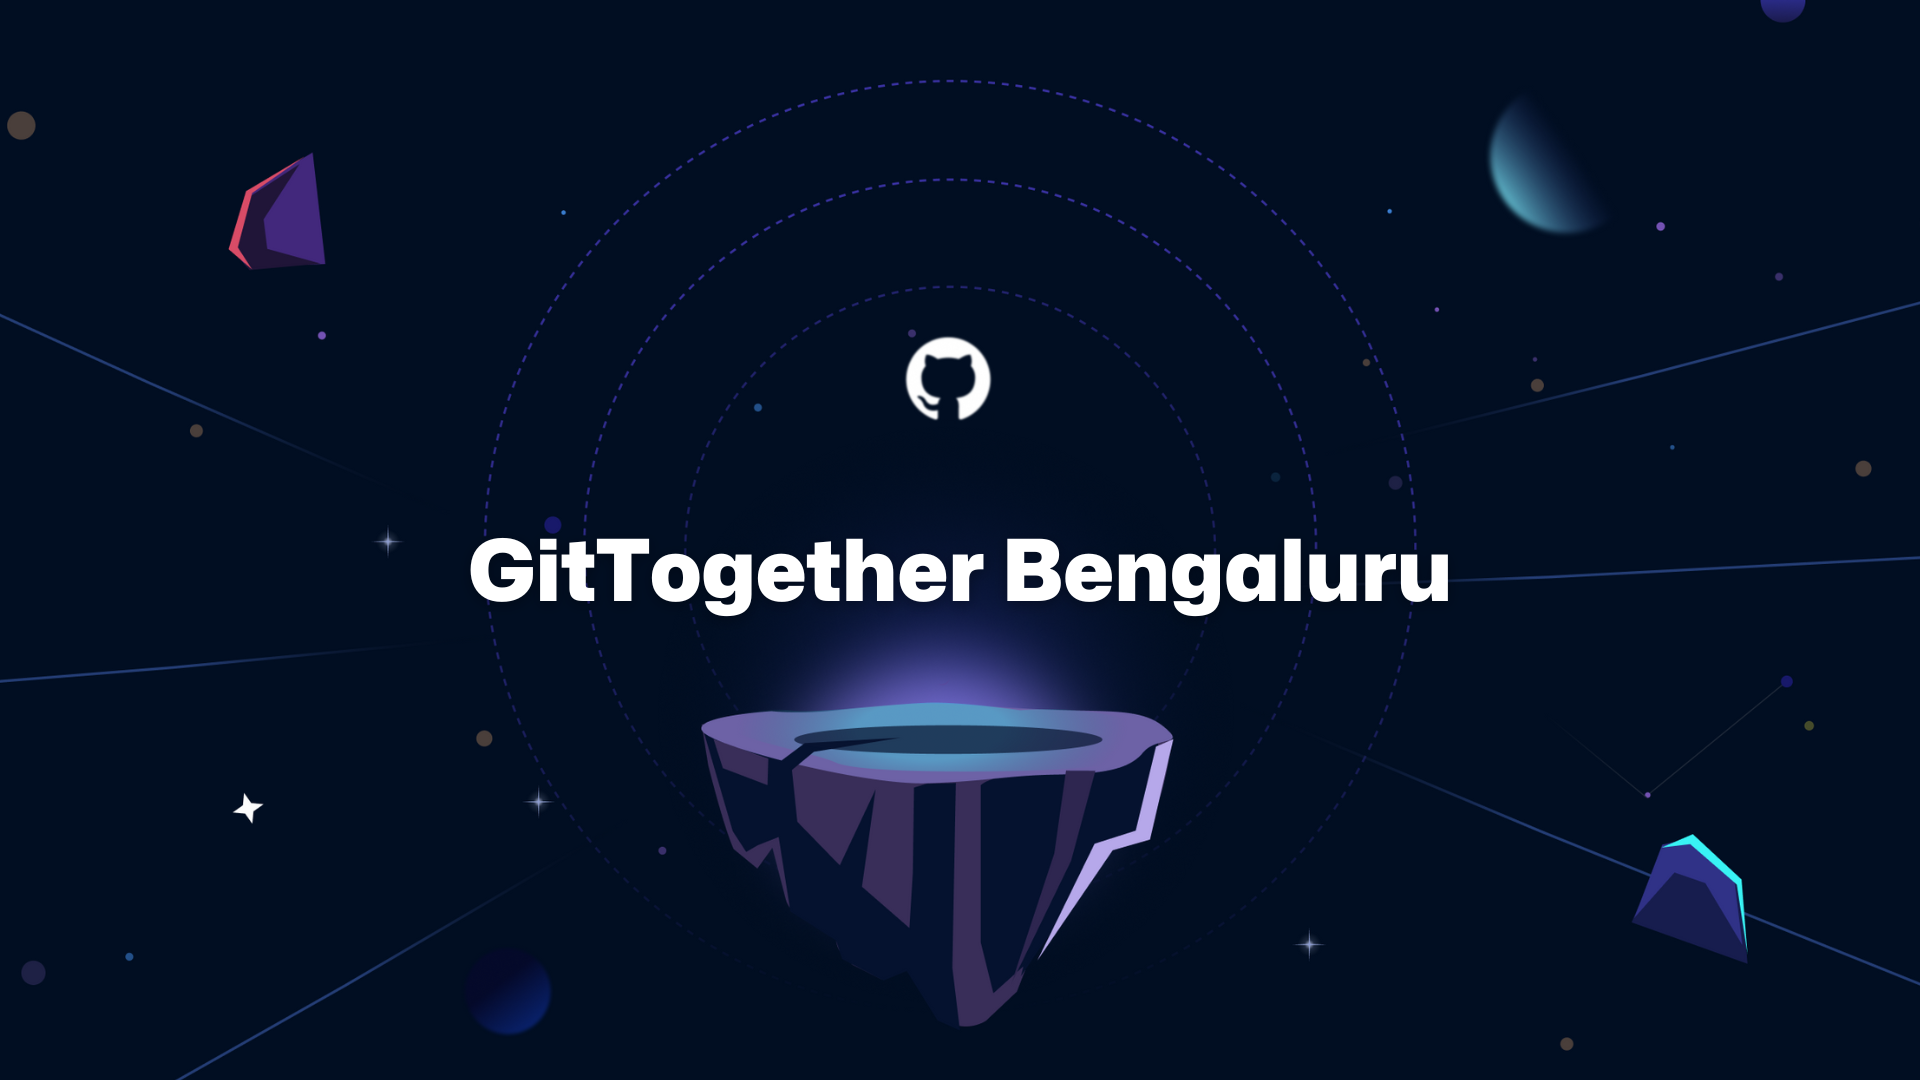
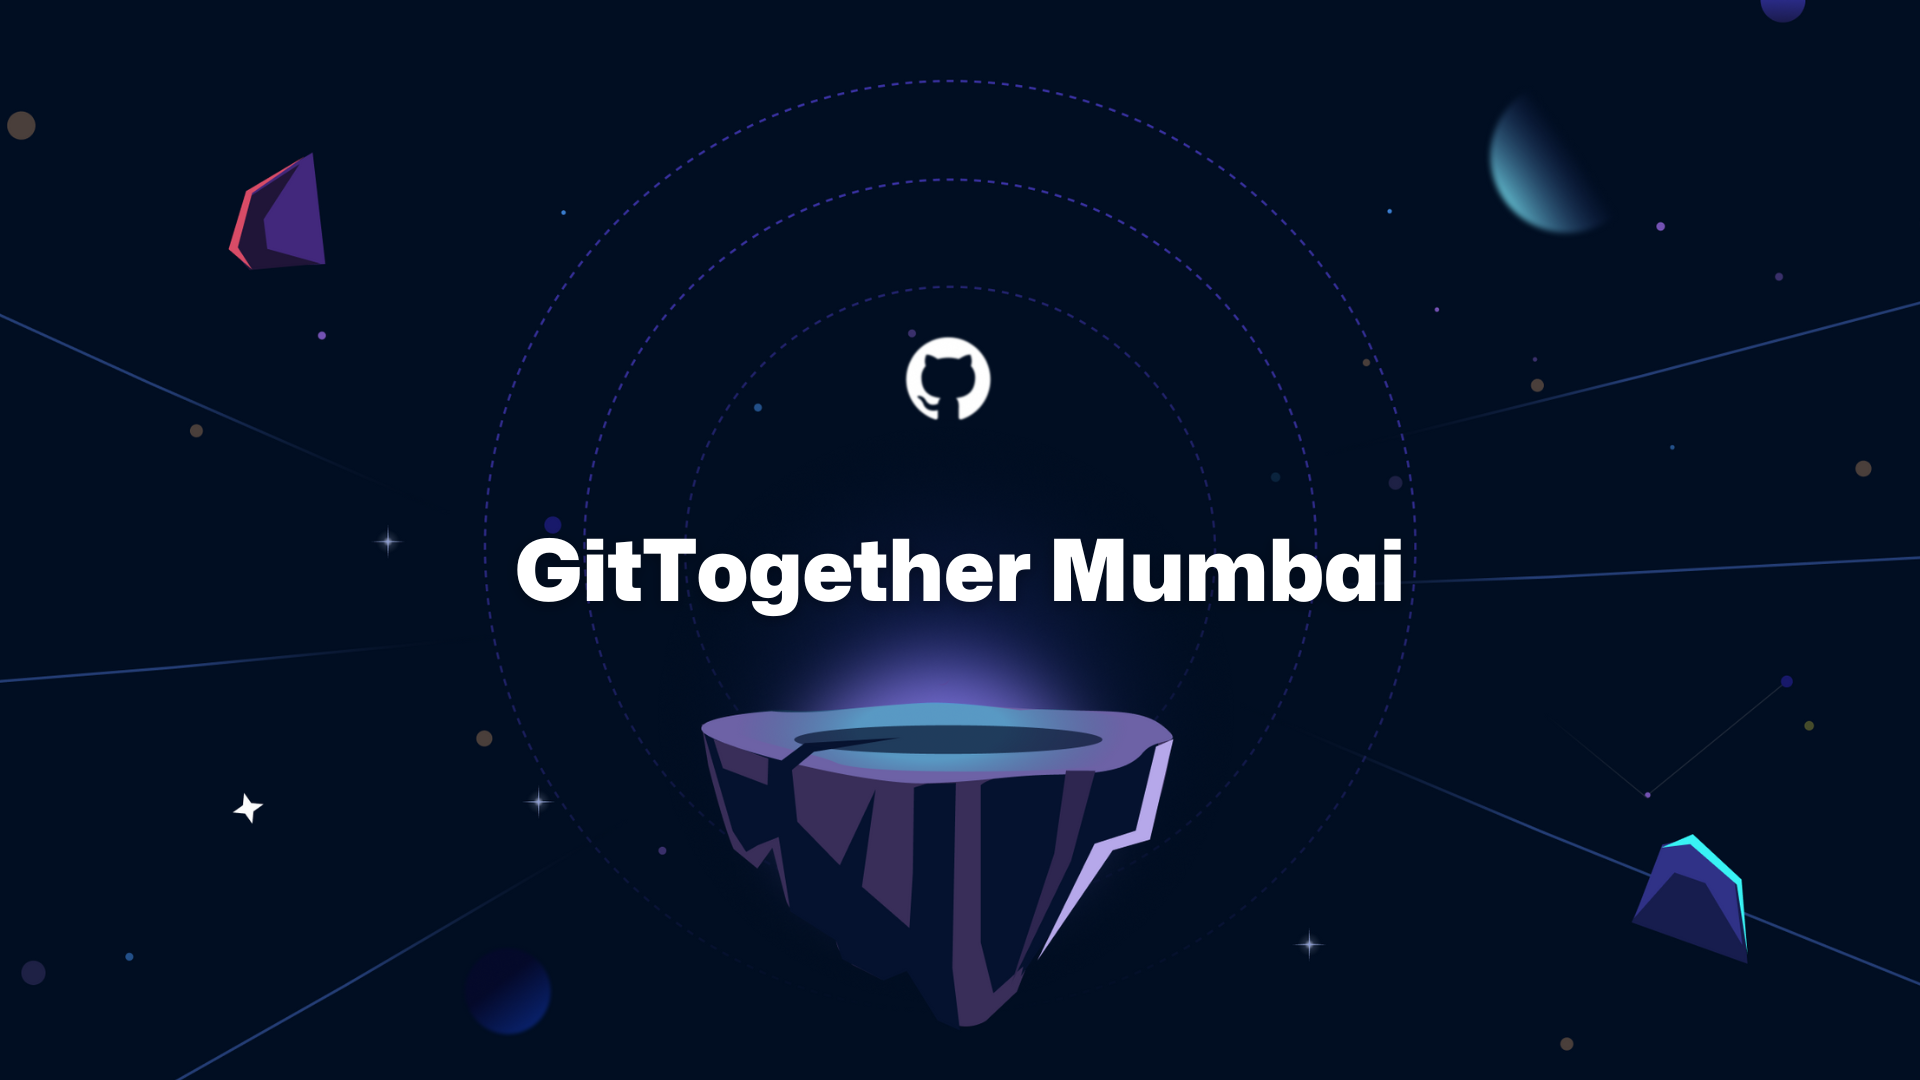
Update files for Mumbai

Changed region(s): [[0.2188, 0.4889, 0.7812, 0.5806]]

diff --git a/README.md b/README.md
@@ -1,27 +1,25 @@
-[![image](/assets/cover-image.png)](https://www.meetup.com/gittogether-bengaluru)
+[![image](/assets/cover-image.png)](https://www.meetup.com/gittogether-mumbai)
 
 <br>
 
-Welcome to **GitTogether Bengaluru** – the ultimate gathering for developers in and around Bengaluru, India. Powered by GitHub and led by passionate community leaders, our events cover diverse topics such as AI, Open Source, Security, and more. 
+Welcome to **GitTogether Mumbai** – the ultimate gathering for developers in and around Mumbai, India. Powered by GitHub and led by passionate community leaders, our events cover diverse topics such as AI, Open Source, Security, and more. 
 
 Join us to engage in discussions, workshops, and networking opportunities with like-minded peers, regardless of your skill level.
 
 
-[![Meetup Button](/assets/meetup-button.png)](https://www.meetup.com/gittogether-bengaluru)
+[![Meetup Button](/assets/meetup-button.png)](https://www.meetup.com/gittogether-mumbai)
 
 
 -------------
 
-- **Get notified of upcoming GitTogethers**: If you haven't already, [join GitTogether Bengaluru group](https://www.meetup.com/gittogether-bengaluru) on Meetup.
+- **Get notified of upcoming GitTogethers**: If you haven't already, [join GitTogether Mumbai group](https://www.meetup.com/gittogether-mumbai) on Meetup.
 - **Attend GitTogethers**: Register for upcoming events using the links provided above.
 - **Become a speaker**: Submit your session proposal at [gh.io/cfs](https://gh.io/cfs)
 - **Showcase your project**: Apply for our Community Spotlight at [gh.io/spotlight](https://gh.io/spotlight)
 
-<br>
+## Community Leader
 
-| Community Leader | Community Volunteer | Community Volunteer |
-|:---:|:---:|:---:|
-| <img src="https://github.com/swaminathanvetri.png" width="80" height="80" style="border-radius: 50%;" alt="Swaminathan Vetri"><br>**[Swaminathan Vetri](https://github.com/swaminathanvetri)**<br>Lead Platform Architect at Maersk | <img src="https://github.com/Frenzyritz13.png" width="80" height="80" style="border-radius: 50%;" alt="Ritvi Mishra"><br>**[Ritvi Mishra](https://github.com/Frenzyritz13)**<br>Education Services Specialist at BigCommerce | <img src="https://github.com/eraditya-sharma.png" width="80" height="80" style="border-radius: 50%;" alt="Aditya Sharma"><br>**[Aditya Sharma](https://github.com/eraditya-sharma)**<br>Data Engineer (IT Analyst) at TCS |
+<img src="https://github.com/indcoder.png" width="80" height="80" style="border-radius: 50%;" alt="Augustine Correa"><br>**[Augustine Correa](https://github.com/indcoder)**<br>Microsoft MVP
 
 -------------
 
@@ -38,30 +36,30 @@ Are you passionate about open-source development and have a project you'd love t
 - For any queries about past or upcoming events, please contact community leaders or volunteers.
 - For all other inquiries, please drop us an email at meetups@github.com
 
-Join us in shaping the future of software development and connecting with Bengaluru's brightest minds in technology!
+Join us in shaping the future of software development and connecting with Mumbai's brightest minds in technology!
 
 ## Upcoming Events
 
-### GitTogether Bengaluru - 28th September 2024
-- [Event Link](https://www.meetup.com/gittogether-bengaluru/events/303522982/)
-- [Event Resources](./GitTogether%20Bengaluru%202024-09-28)
+### GitTogether Mumbai - 5th October 2024
+- [Event Link](https://www.meetup.com/gittogether-mumbai/events/303564188/)
+- [Event Resources](./GitTogether%20Mumbai%202024-10-05)
 
-[![September 2024 Event](/assets/2024-09-28.png)](https://www.meetup.com/gittogether-bengaluru/events/303522982/)
+[![September 2024 Event](/assets/2024-10-05.png)](https://www.meetup.com/gittogether-mumbai/events/303564188/)
 
 -------------
 
 ## Past Events
 
-### GitTogether Bengaluru - 24th August 2024
-- [Event Link](https://www.meetup.com/gittogether-bengaluru/events/302784046/)
-- [Event Resources](./GitTogether%20Bengaluru%202024-08-24)
+### GitTogether Mumbai - 31st August 2024
+- [Event Link](https://www.meetup.com/gittogether-mumbai/events/302784700/)
+- [Event Resources](./GitTogether%20Mumbai%202024-08-31)
 
-[![August 2024 Event](/assets/2024-08-24.png)](https://www.meetup.com/gittogether-bengaluru/events/302784046/)
+[![August 2024 Event](/assets/2024-08-31.jpg)](https://www.meetup.com/gittogether-mumbai/events/302784700/)
 
 --------
 
-### GitTogether Bengaluru - 5th July 2024
-- [Event Link](https://www.meetup.com/gittogether-bengaluru/events/301709790/)
-- [Event Resources](./GitTogether%20Bengaluru%202024-07-05)
+### GitTogether Mumbai - 12th July 2024
+- [Event Link](https://www.meetup.com/gittogether-mumbai/events/301833510/)
+- [Event Resources](./GitTogether%20Mumbai%202024-07-12)
 
-[![July 2024 Event](/assets/2024-07-05.jpg)](https://www.meetup.com/gittogether-bengaluru/events/301709790/)
+[![July 2024 Event](/assets/2024-07-12.jpg)](https://www.meetup.com/gittogether-mumbai/events/301833510/)

diff --git a/GitTogether Mumbai 2024-10-05/README.md b/GitTogether Mumbai 2024-10-05/README.md
@@ -1,0 +1,20 @@
+[![September 2024 Event](/assets/2024-09-28.png)](https://www.meetup.com/gittogether-bengaluru/events/303522982/)
+
+**Agenda**
+
+- 9:30 AM to 10:00 AM: **Registration and Networking**
+- 10:00 AM to 10:10 AM: **Welcome Note**
+- 10:10 AM to 10:40 AM: **Fine-Grained Authorization for Modern Applications** by [Ashish Jha](https://www.linkedin.com/in/thedreamsaver/) Solutions Engineer at Auth0 by Okta
+- 10:40 AM to 11:10 AM: **Balancing Community Health and Open Source Growth: The Contributor's Role** by [Aditya Oberai](https://www.linkedin.com/in/adityaoberai1) Developer Advocate at Appwrite
+- 11:10 AM to 11:30 AM: **Break and Networking**
+- 11:30 AM to 11:35 AM: **Community Spotlight - Utility Hook for GitHub Rest API** by [Yash Sehgal](https://www.linkedin.com/in/sehgalyash/) Software Engineer at Rocketium
+- 11:35 AM to 12:05 PM: **From Notebook in Codespaces to Kubernetes: Scaling GenAI Pipelines with ZenML** by [Jayesh Sharma](https://www.linkedin.com/in/wjayesh/) Platform Engineer at ZenML
+- 12:05 AM to 12:30 PM: **Quiz, Networking and Event Closing**
+
+-----------
+
+**Date:** Saturday 28th September 2024
+
+**Time:** 9:30 AM to 12:30 PM IST
+
+**Venue:** [Microsoft Prestige Ferns Galaxy](https://g.co/kgs/NiK4DfU), Sy. No. 7/1, 7/2, 8/1A in Ambalipura, Varthur Hobli, Outer Ring Road, Bengaluru.

diff --git a/GitTogether Mumbai 2024-08-31/README.md b/GitTogether Mumbai 2024-08-31/README.md
@@ -1,0 +1,22 @@
+![image](/assets/2024-08-31.jpg)
+
+Find all pictures here: https://www.meetup.com/gittogether-mumbai/photos/34838201/
+
+-----------
+
+**Agenda**
+
+- 2:00 to 2:05 PM: Welcome Note
+- 2.05 to 2.45 PM: GitHub announcements at MS Build 2024, and a sneak peek into GitHub Copilot Workspace & AI models by [Augustine Correa](https://github.com/indcoder)
+- 2:45 to 3:05 PM: Application Security for Repos using GitHub by [Shweta Kadam](https://github.com/shwetarkadam), Software Engineer 2 at Boku
+- 3:10 to 3:30 PM: Break and Networking
+- 3:30 to 3:45 PM: Community Spotlight - Tripify by [Nandini Singh](https://github.com/HeyfromNandini), Android Developer
+- 3:45 to 4.15 PM: Load Runner Integration with GIT & Jenkins by [Sangeeta Sinha](https://github.com/Sangeeta29071986/Sangeeta29071986), AVP Barclays
+
+-----------
+
+Date: Saturday, 31st August 2024
+
+Time: 2 PM to 5 PM IST
+
+Venue: [Microsoft Corporation India Pvt. Ltd](https://maps.app.goo.gl/1FhuCQERoZNFa981A)., Windsor, 4th Floor, Central Salsette Tramway Road (CST Road), Kalina, Santacruz (East), Mumbai, Maharashtra 400098, India.

diff --git a/GitTogether Mumbai 2024-07-12/README.md b/GitTogether Mumbai 2024-07-12/README.md
@@ -1,0 +1,23 @@
+![image](/assets/2024-07-12.jpg)
+
+Find all pictures here: PENDING
+
+-----------
+
+**Agenda**
+
+- 4:00 to 4:10 PM: Welcome Note
+- 4:10 to 4:40 PM: Streamline Your Development Workflow: GitHub for the Entire Development Cycle by [Vishal Kumar](https://github.com/vishal-kr-barnwal), Software Architect at Tata Digital
+- 4:40 to 5:10 PM: GitHub Actions Best Practices by [Santosh Yadav](https://github.com/santoshyadavdev), GitHub Star and Senior Software Engineer, Celonis.
+- 5:10 to 5:30 PM: Break and Networking
+- 5:30 to 5:35 PM: Community Spotlight
+- 5:35 to 6:05 PM: Making GitHub Actions CI "Secure-By-Design" by [Abhishek Anand](https://github.com/raianand), Founder at Koalalab, ex CTO Housing .com
+- 6:05 to 6:30 PM: Quiz, Networking and Event Closing
+
+-----------
+
+Date: Friday 12th July 2024
+
+Time: 4 PM to 7 PM IST
+
+Venue: [Microsoft Corporation India Pvt. Ltd](https://maps.app.goo.gl/1FhuCQERoZNFa981A)., Windsor, 4th Floor, Central Salsette Tramway Road (CST Road), Kalina, Santacruz (East), Mumbai, Maharashtra 400098, India.
